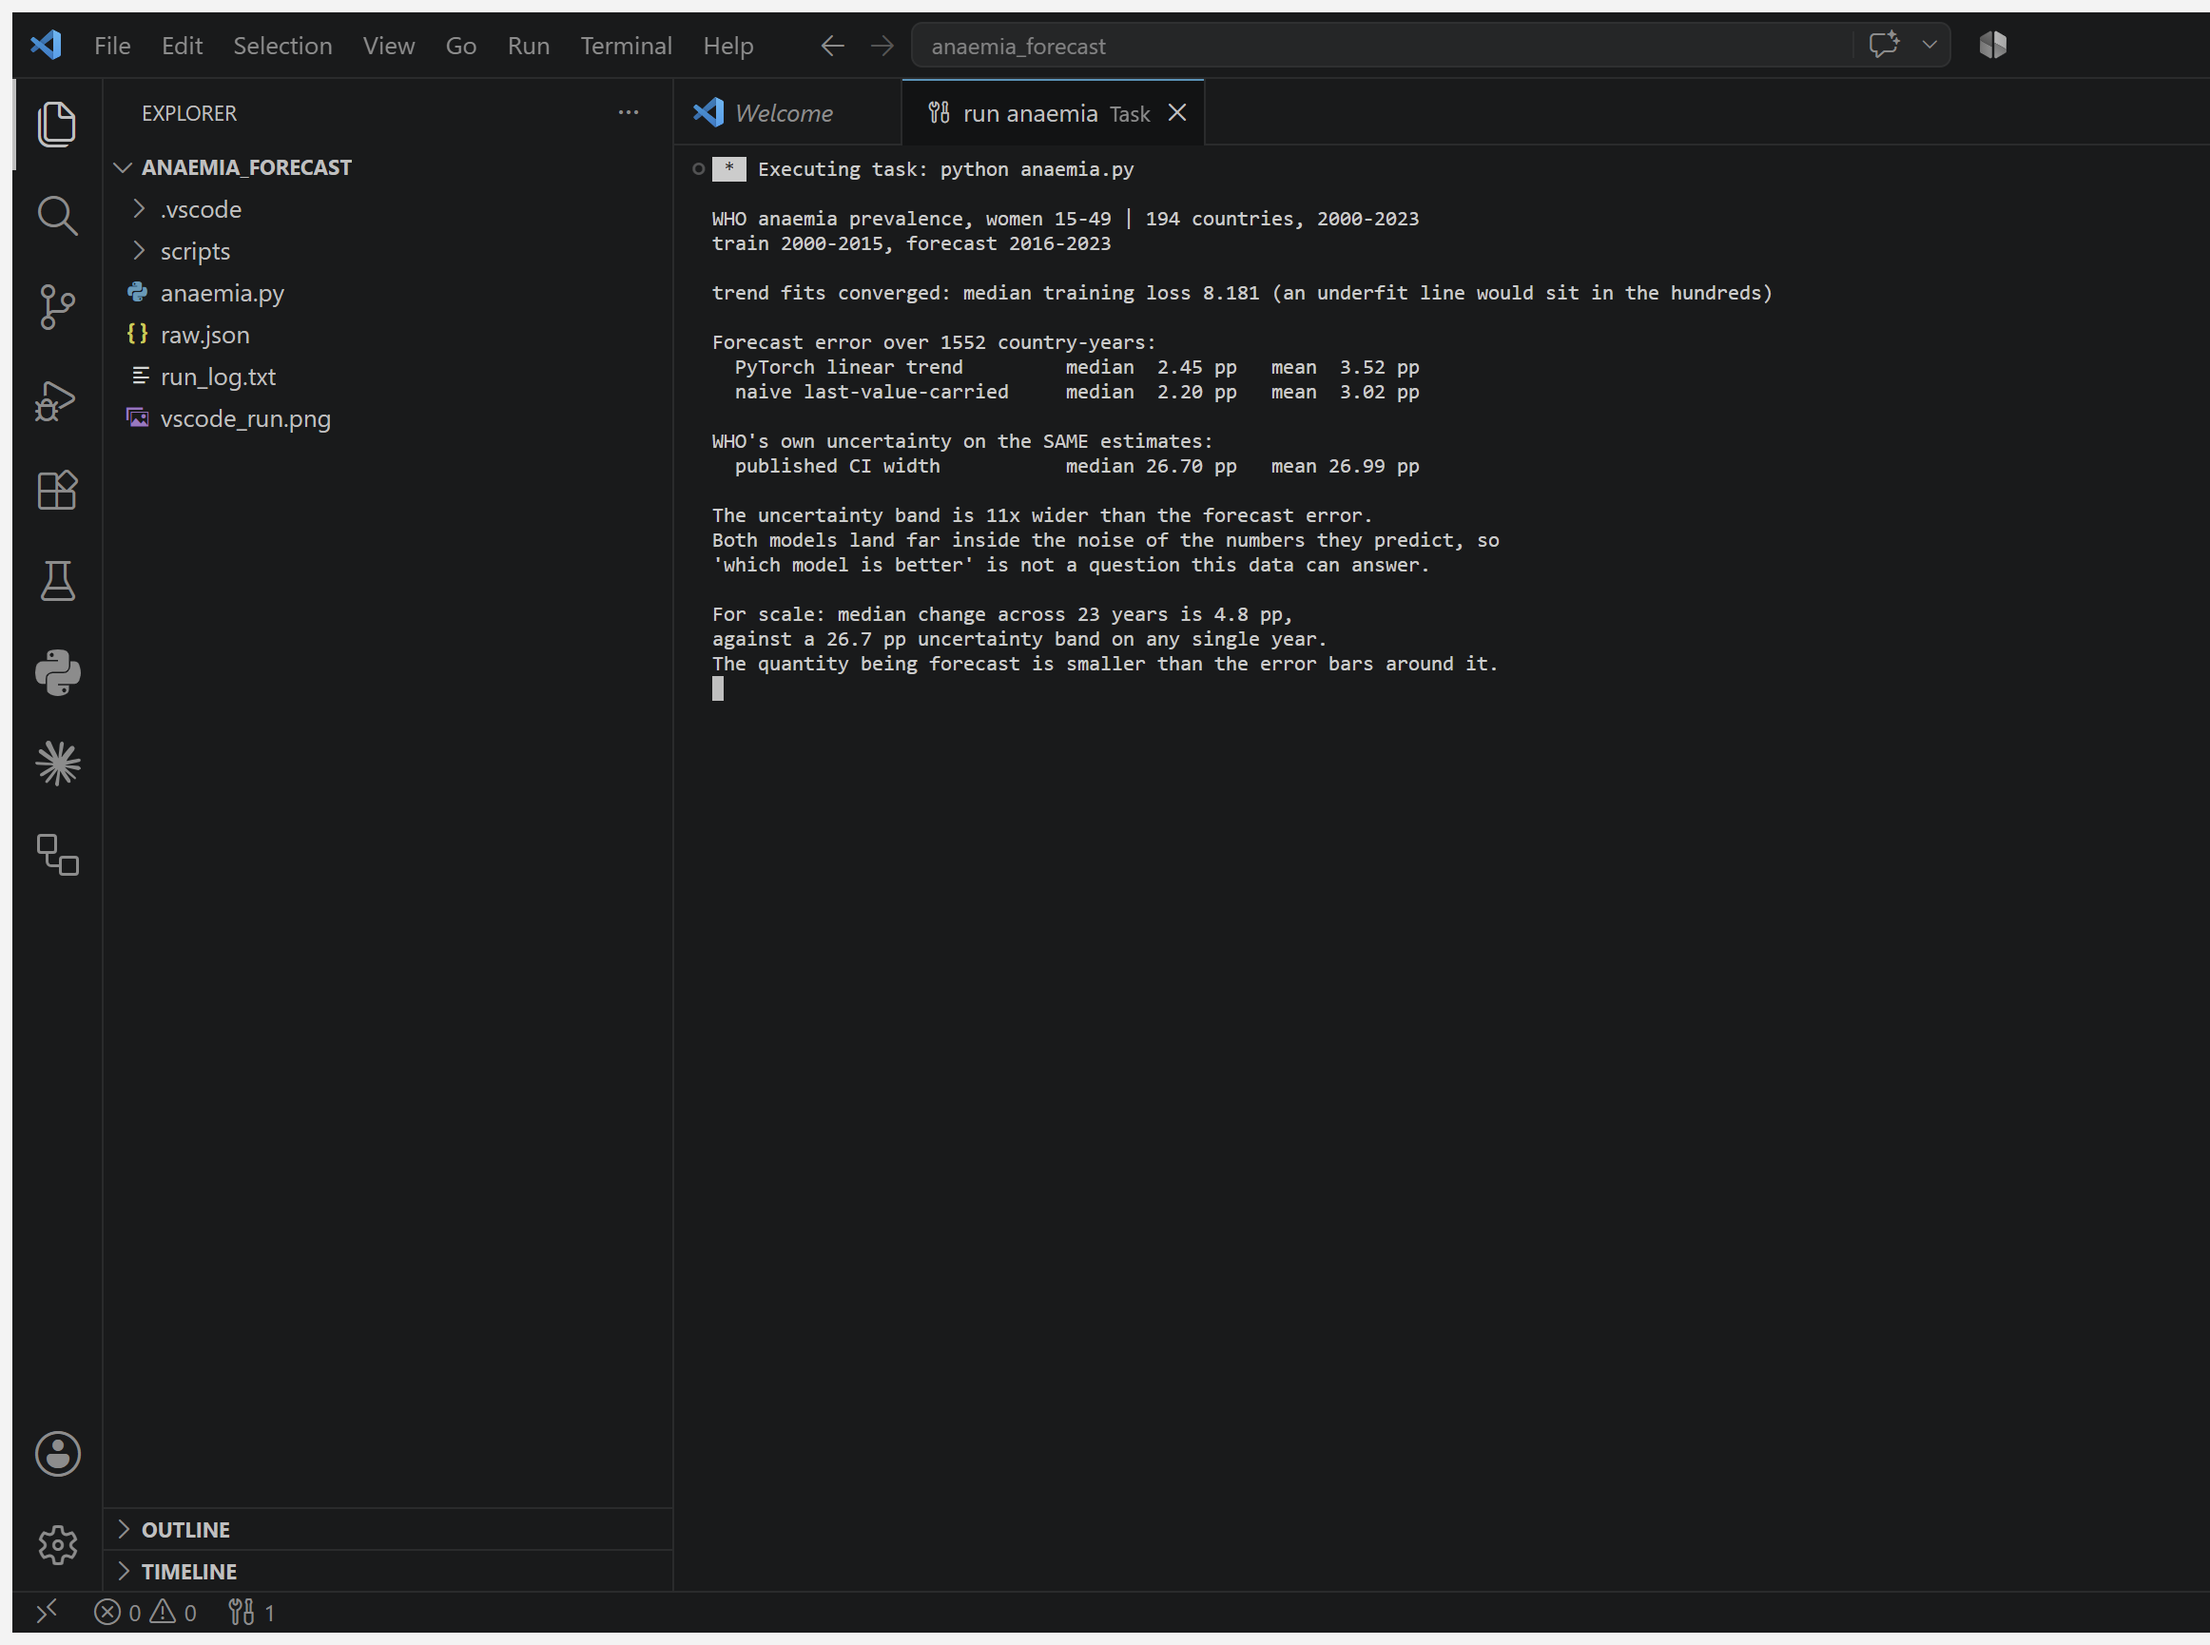
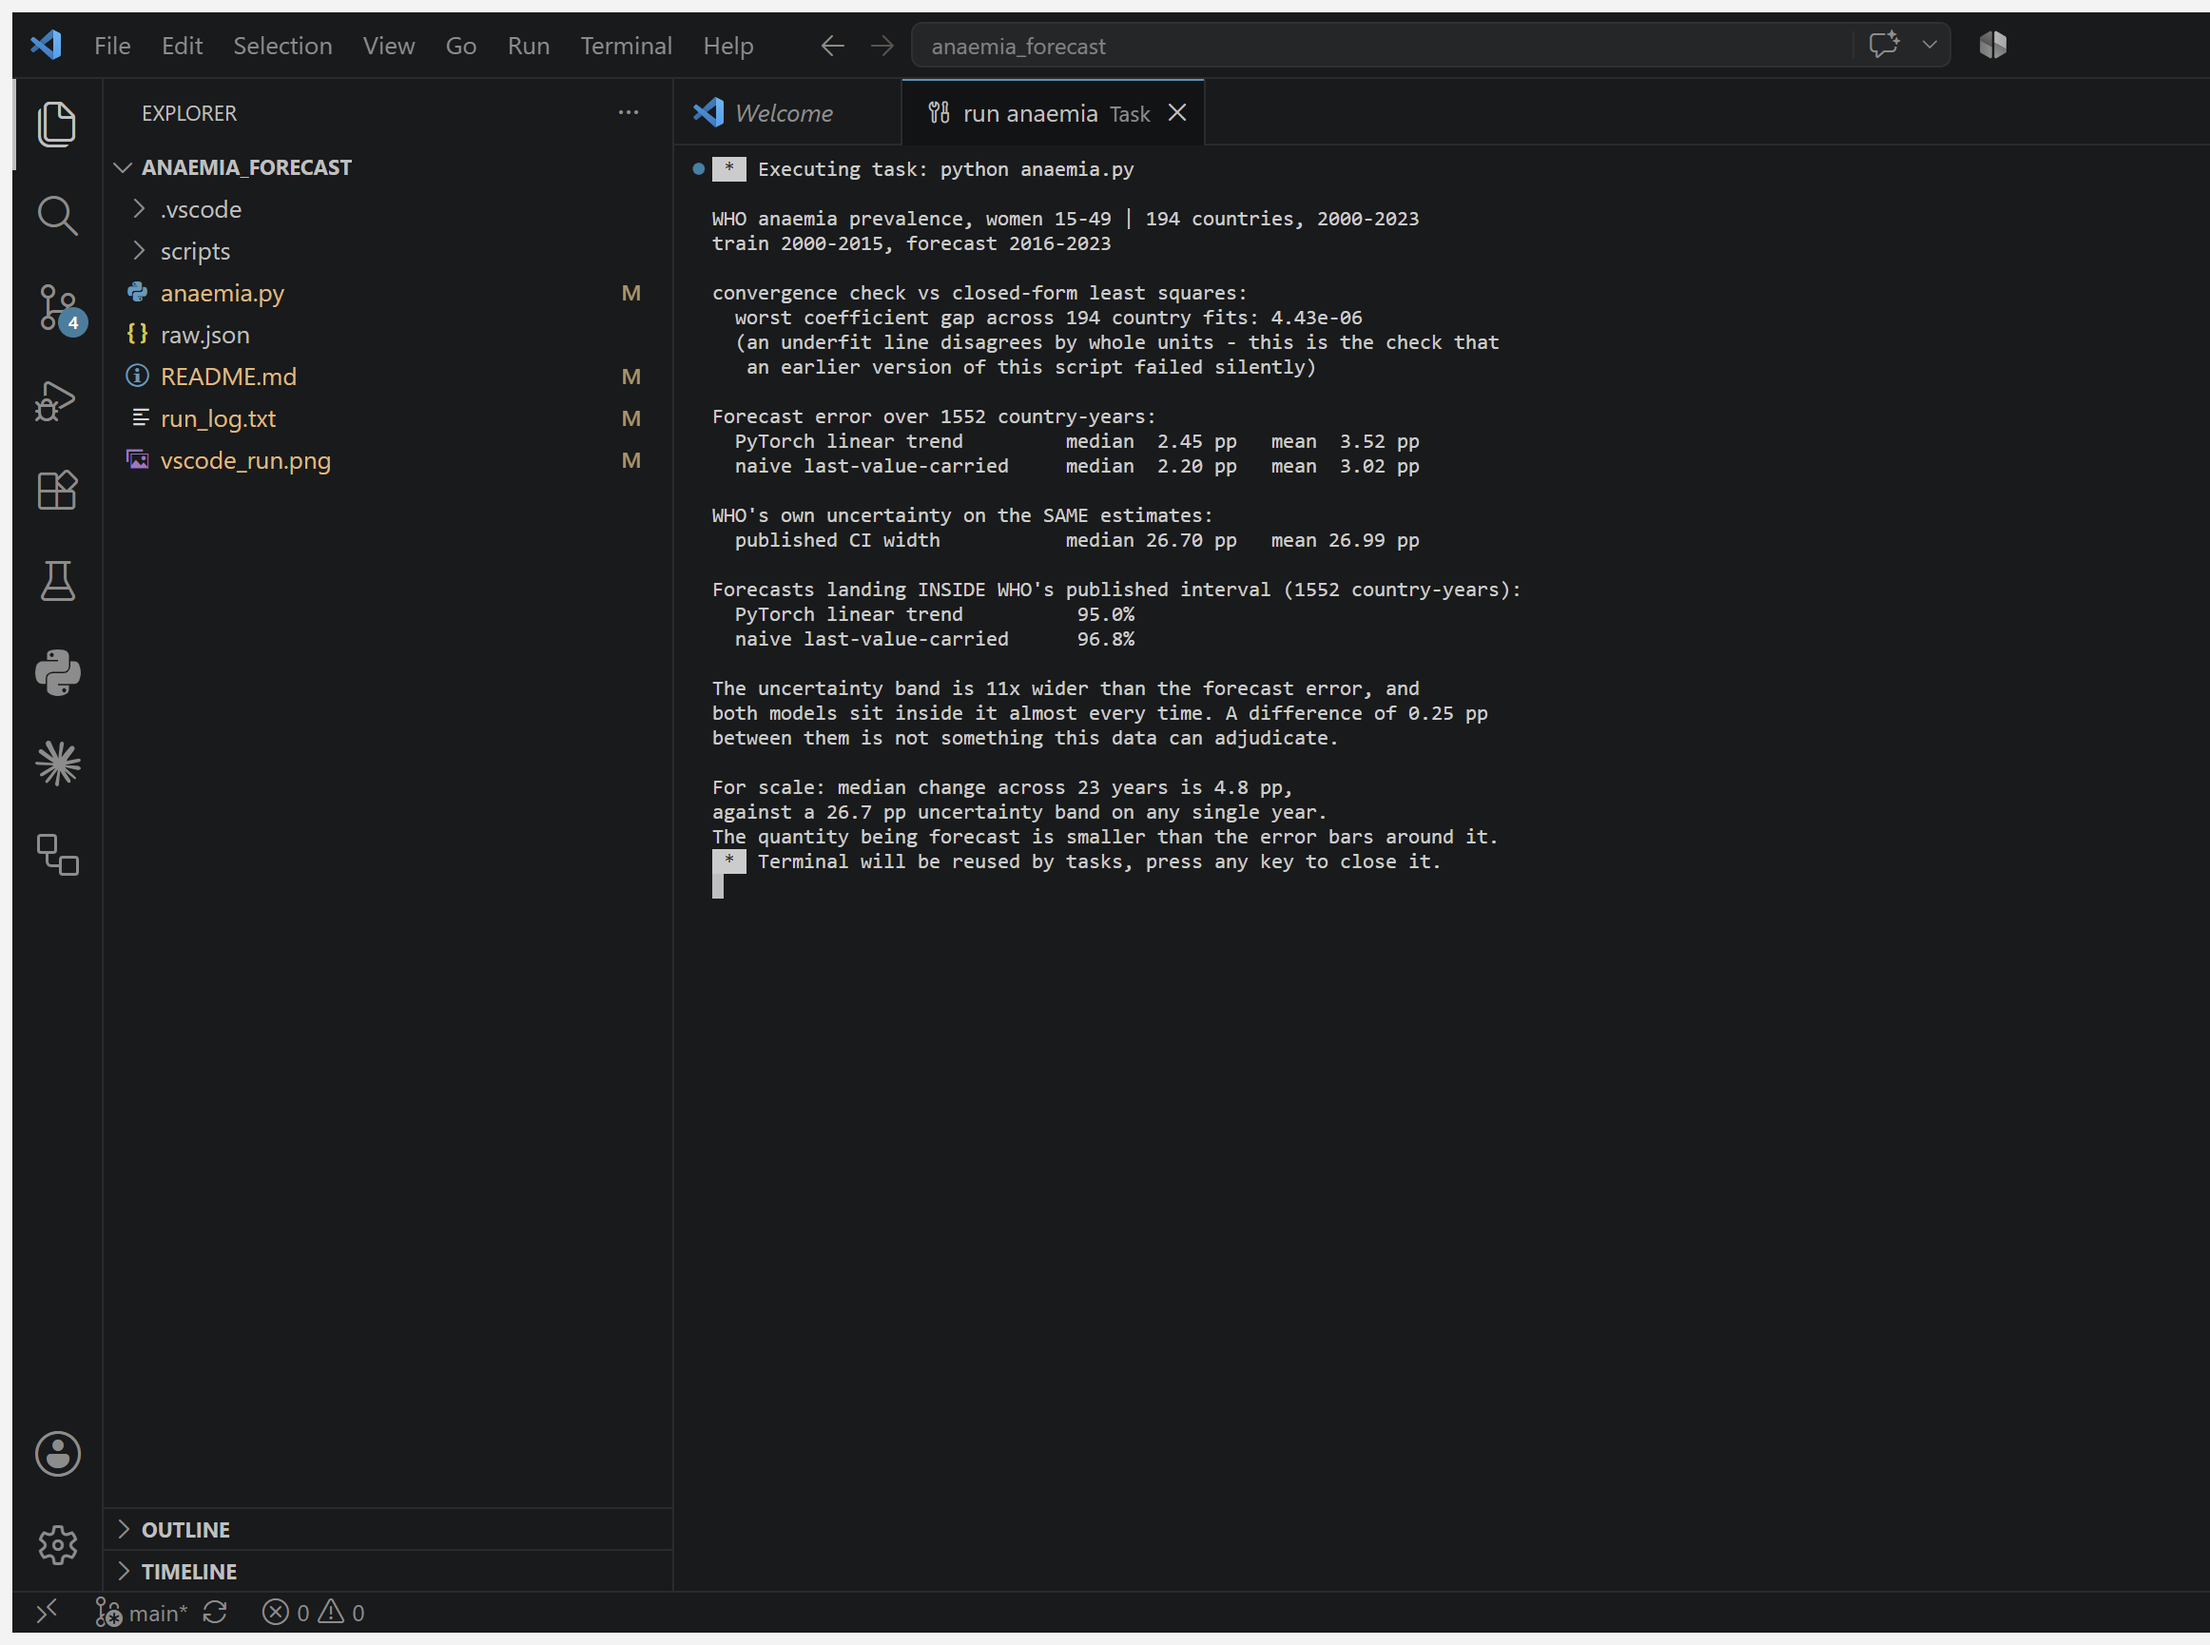
Verify convergence against closed-form solution; measure CI coverage
Standardise both axes before fitting so convergence no longer depends on a
hardcoded epoch count, and check every fit against the exact least-squares
solution instead of trusting the loop. Report the share of forecasts landing
inside WHO's published interval rather than only comparing error magnitudes.

diff --git a/anaemia.py b/anaemia.py
@@ -10,13 +10,16 @@ This script does that - a PyTorch per-country linear trend against a naive
 "last value carried forward" baseline - and then does the thing the standard
 exercise skips.
 
-WHO publishes an uncertainty interval with EVERY estimate. Compare:
+WHO publishes an uncertainty interval with EVERY estimate, so this script asks
+how often each forecast lands inside that interval. If both models sit inside
+it nearly always, then ranking them by a fraction of a percentage point is
+reporting noise with a decimal point.
 
-    median forecast error   (how wrong the model is)
-    median WHO CI width     (how unsure the source data already is)
-
-If the second dwarfs the first, the model is reporting decimal places that the
-underlying data cannot support. That comparison is the whole point here.
+It also verifies its own arithmetic: every gradient-descent fit is checked
+against the closed-form least-squares solution for the same series. An earlier
+version of this script silently underfit (300 epochs, unstandardised inputs)
+and produced a convincing but false result - "trend extrapolation fails on
+health data" - which was really just a line that had not finished training.
 
 Note on the data: every one of the 194 countries has a value for all 24 years,
 including countries that ran no national survey in most of them. These are
@@ -35,9 +38,7 @@ import statistics
 import torch
 
 SPLIT_YEAR = 2015  # train 2000-2015, forecast 2016-2023
-# 2000, not 300: at 300 the fit has not converged (training loss 293 vs 0.42),
-# and an underfit line looks exactly like "trend forecasting does not work".
-EPOCHS = 2000
+EPOCHS = 500
 
 
 def load(path="raw.json"):
@@ -51,25 +52,55 @@ def load(path="raw.json"):
     return out
 
 
+def exact_trend(x, y):
+    """Closed-form least squares. The answer gradient descent should reach."""
+    xm, ym = x.mean(), y.mean()
+    a = ((x - xm) * (y - ym)).sum() / ((x - xm) ** 2).sum()
+    return float(a), float(ym - a * xm)
+
+
 def fit_trend(years, values):
-    """Fit value = a*year + b by gradient descent. Returns (a, b)."""
-    x = (torch.tensor(years, dtype=torch.float32) - SPLIT_YEAR).unsqueeze(1)
-    y = torch.tensor(values, dtype=torch.float32).unsqueeze(1)
+    """Fit value = a*(year - SPLIT_YEAR) + b by gradient descent.
+
+    Standardising both axes first is what makes convergence reliable: raw
+    prevalence sits near 30-60, so a zero-initialised bias needs hundreds of
+    steps just to reach the data, and an underfit line is indistinguishable
+    from a failed method. Returns (a, b, gap) where gap is the distance from
+    the closed-form solution - the caller uses it to verify convergence
+    instead of trusting the epoch count.
+    """
+    x = torch.tensor(years, dtype=torch.float32) - SPLIT_YEAR
+    y = torch.tensor(values, dtype=torch.float32)
+
+    xs, ys = x.std(), y.std()
+    if xs == 0 or ys == 0:  # degenerate series - closed form handles it
+        a, b = exact_trend(x, y)
+        return a, b, 0.0
+    xn = ((x - x.mean()) / xs).unsqueeze(1)
+    yn = ((y - y.mean()) / ys).unsqueeze(1)
+
     torch.manual_seed(0)
     model = torch.nn.Linear(1, 1)
     opt = torch.optim.Adam(model.parameters(), lr=0.1)
     for _ in range(EPOCHS):
         opt.zero_grad()
-        torch.nn.functional.mse_loss(model(x), y).backward()
+        torch.nn.functional.mse_loss(model(xn), yn).backward()
         opt.step()
+
     with torch.no_grad():
-        loss = float(torch.nn.functional.mse_loss(model(x), y))
-    return float(model.weight.detach()), float(model.bias.detach()), loss
+        w, c = float(model.weight), float(model.bias)
+    a = w * float(ys) / float(xs)                    # undo the scaling
+    b = float(y.mean()) + c * float(ys) - a * float(x.mean())
+
+    a_exact, b_exact = exact_trend(x, y)
+    gap = max(abs(a - a_exact), abs(b - b_exact))
+    return a, b, gap
 
 
 def evaluate(data):
     """Per country: trend forecast error, naive error, and WHO CI width."""
-    trend_err, naive_err, ci_width, fit_losses = [], [], [], []
+    trend_err, naive_err, ci_width, gaps = [], [], [], []
+    inside = {"trend": 0, "naive": 0, "total": 0}
 
     for country, series in data.items():
         train = sorted((y, v) for y, (v, _, _) in series.items() if y <= SPLIT_YEAR)
@@ -77,18 +108,22 @@ def evaluate(data):
         if len(train) < 5 or not test:
             continue
 
-        a, b, loss = fit_trend([y for y, _ in train], [v for _, v in train])
-        fit_losses.append(loss)
+        a, b, gap = fit_trend([y for y, _ in train], [v for _, v in train])
+        gaps.append(gap)
         last = train[-1][1]
 
         for year, actual in test:
-            trend_err.append(abs((a * (year - SPLIT_YEAR) + b) - actual))
+            forecast = a * (year - SPLIT_YEAR) + b
+            trend_err.append(abs(forecast - actual))
             naive_err.append(abs(last - actual))
             _, lo, hi = series[year]
             if lo is not None and hi is not None:
                 ci_width.append(hi - lo)
+                inside["total"] += 1
+                inside["trend"] += lo <= forecast <= hi
+                inside["naive"] += lo <= last <= hi
 
-    return trend_err, naive_err, ci_width, fit_losses
+    return trend_err, naive_err, ci_width, gaps, inside
 
 
 def summary(name, errors):
@@ -102,9 +137,15 @@ if __name__ == "__main__":
     print(f"train {min(min(s) for s in data.values())}-{SPLIT_YEAR}, "
           f"forecast {SPLIT_YEAR+1}-2023\n")
 
-    trend_err, naive_err, ci, losses = evaluate(data)
-    print(f"trend fits converged: median training loss "
-          f"{statistics.median(losses):.3f} (an underfit line would sit in the hundreds)\n")
+    trend_err, naive_err, ci, gaps, inside = evaluate(data)
+
+    # Convergence is checked, not assumed: every gradient-descent fit is compared
+    # against the closed-form least-squares solution for the same series.
+    print(f"convergence check vs closed-form least squares:")
+    print(f"  worst coefficient gap across {len(gaps)} country fits: {max(gaps):.2e}")
+    print(f"  (an underfit line disagrees by whole units - this is the check that")
+    print(f"   an earlier version of this script failed silently)\n")
+
     print(f"Forecast error over {len(trend_err)} country-years:")
     summary("PyTorch linear trend", trend_err)
     summary("naive last-value-carried", naive_err)
@@ -113,10 +154,15 @@ if __name__ == "__main__":
     print(f"  {'published CI width':28s} median {statistics.median(ci):5.2f} pp   "
           f"mean {statistics.mean(ci):5.2f} pp")
 
+    t = inside["total"]
+    print(f"\nForecasts landing INSIDE WHO's published interval ({t} country-years):")
+    print(f"  {'PyTorch linear trend':28s} {inside['trend'] / t * 100:5.1f}%")
+    print(f"  {'naive last-value-carried':28s} {inside['naive'] / t * 100:5.1f}%")
+
     ratio = statistics.median(ci) / statistics.median(trend_err)
-    print(f"\nThe uncertainty band is {ratio:.0f}x wider than the forecast error.")
-    print("Both models land far inside the noise of the numbers they predict, so")
-    print("'which model is better' is not a question this data can answer.")
+    print(f"\nThe uncertainty band is {ratio:.0f}x wider than the forecast error, and")
+    print("both models sit inside it almost every time. A difference of 0.25 pp")
+    print("between them is not something this data can adjudicate.")
 
     changes = [abs(s[2023][0] - s[2000][0]) for s in data.values()
                if 2000 in s and 2023 in s]

diff --git a/README.md b/README.md
@@ -4,14 +4,17 @@
 being forecast is 4.8 points across 23 years.** The quantity is smaller than the
 error bars around it, and no model fixes that.
 
-| | Median error | Mean error |
-|---|---|---|
-| PyTorch linear trend | 2.45 pp | 3.52 pp |
-| naive "assume nothing changed" | **2.20 pp** | **3.02 pp** |
-| **WHO's published uncertainty on the same estimates** | **26.70 pp** | 26.99 pp |
+| | Median error | Mean error | Lands inside WHO's own interval |
+|---|---|---|---|
+| PyTorch linear trend | 2.45 pp | 3.52 pp | 95.0% of forecasts |
+| naive "assume nothing changed" | **2.20 pp** | **3.02 pp** | 96.8% of forecasts |
+| **WHO's published uncertainty on the same estimates** | **26.70 pp** | 26.99 pp | — |
 
 The trained model does not beat carrying the last value forward. Both land
-**11× inside** the noise of the numbers they are predicting.
+**11× inside** the noise of the numbers they are predicting, and both sit inside
+WHO's published interval about 19 times out of 20 — which is what "this data
+cannot tell these models apart" looks like when you measure it instead of
+asserting it.
 
 ## The problem
 
@@ -25,27 +28,48 @@ repo does that, then does the part the standard exercise skips — **it compares
 forecast error against the uncertainty WHO publishes alongside every single
 estimate.**
 
-## The bug I shipped into my own first result
+## The bug I shipped into my own first result — and the fix
 
-My first run reported the trend model at **14.83 pp error** — six times worse than
+My first run reported the trend model at **14.83 pp error**, six times worse than
 the naive baseline. It looked like a clean finding: "trend extrapolation fails on
 health data."
 
-It was my bug. At 300 epochs the fit had not converged — training loss 293 versus
-0.42 at 2000 epochs. An underfit line looks exactly like a failed method. After
-fixing the epoch count the error dropped to 2.45 pp and the real result appeared:
-the trend model is *fine*, it just has nothing to beat.
+It was my bug. Prevalence values sit around 30–60, so a zero-initialised bias needs
+hundreds of steps just to reach the data; at 300 epochs the fit had not converged
+(training loss 293 versus 0.42). **An underfit line is indistinguishable from a
+failed method.**
 
-The script now prints median training loss on every run so the reader can check
-convergence rather than trust me. A finding that disappears when you train
-properly was never a finding.
+Raising the epoch count made the number correct but the code no problem-free — it
+still depended on a hardcoded guess being large enough for every country. Two
+structural fixes replaced it:
+
+1. **Standardise both axes before fitting**, then rescale the coefficients back.
+   Convergence no longer depends on the units of the series, and 500 epochs now
+   does what 2000 did before.
+2. **Check the answer instead of trusting the loop.** Every gradient-descent fit is
+   compared against the closed-form least-squares solution for the same series.
+   The script prints the worst disagreement across all 194 fits:
+
+```
+worst coefficient gap across 194 country fits: 4.43e-06
+```
+
+An underfit line disagrees by whole units. This check is the one the earlier
+version failed silently, and it now runs on every execution — the reader verifies
+convergence rather than taking my word for it.
+
+The corrected result is identical to the one reported before the fix (2.45 pp), so
+the finding stands; what changed is that it is now provably converged rather than
+plausibly converged.
 
 ## What the comparison shows
 
 - The trained model **loses to doing nothing** (2.45 vs 2.20 pp). When a series
   barely moves, "assume no change" is a genuinely strong baseline.
-- Both errors sit far inside WHO's own ±13-point uncertainty. Reporting that one
-  model is 0.25 pp better than another is reporting noise with a decimal point.
+- **95.0% and 96.8% of forecasts land inside WHO's published interval.** Both
+  models are, by the source's own accounting, indistinguishable from correct —
+  which means they are also indistinguishable from each other. Reporting that one
+  is 0.25 pp better is reporting noise with a decimal point.
 - **These are modelled estimates, not measurements.** All 194 countries have a
   value for all 24 years — including countries that ran no national survey in most
   of them. The wide intervals are WHO being honest about that. Training on this
